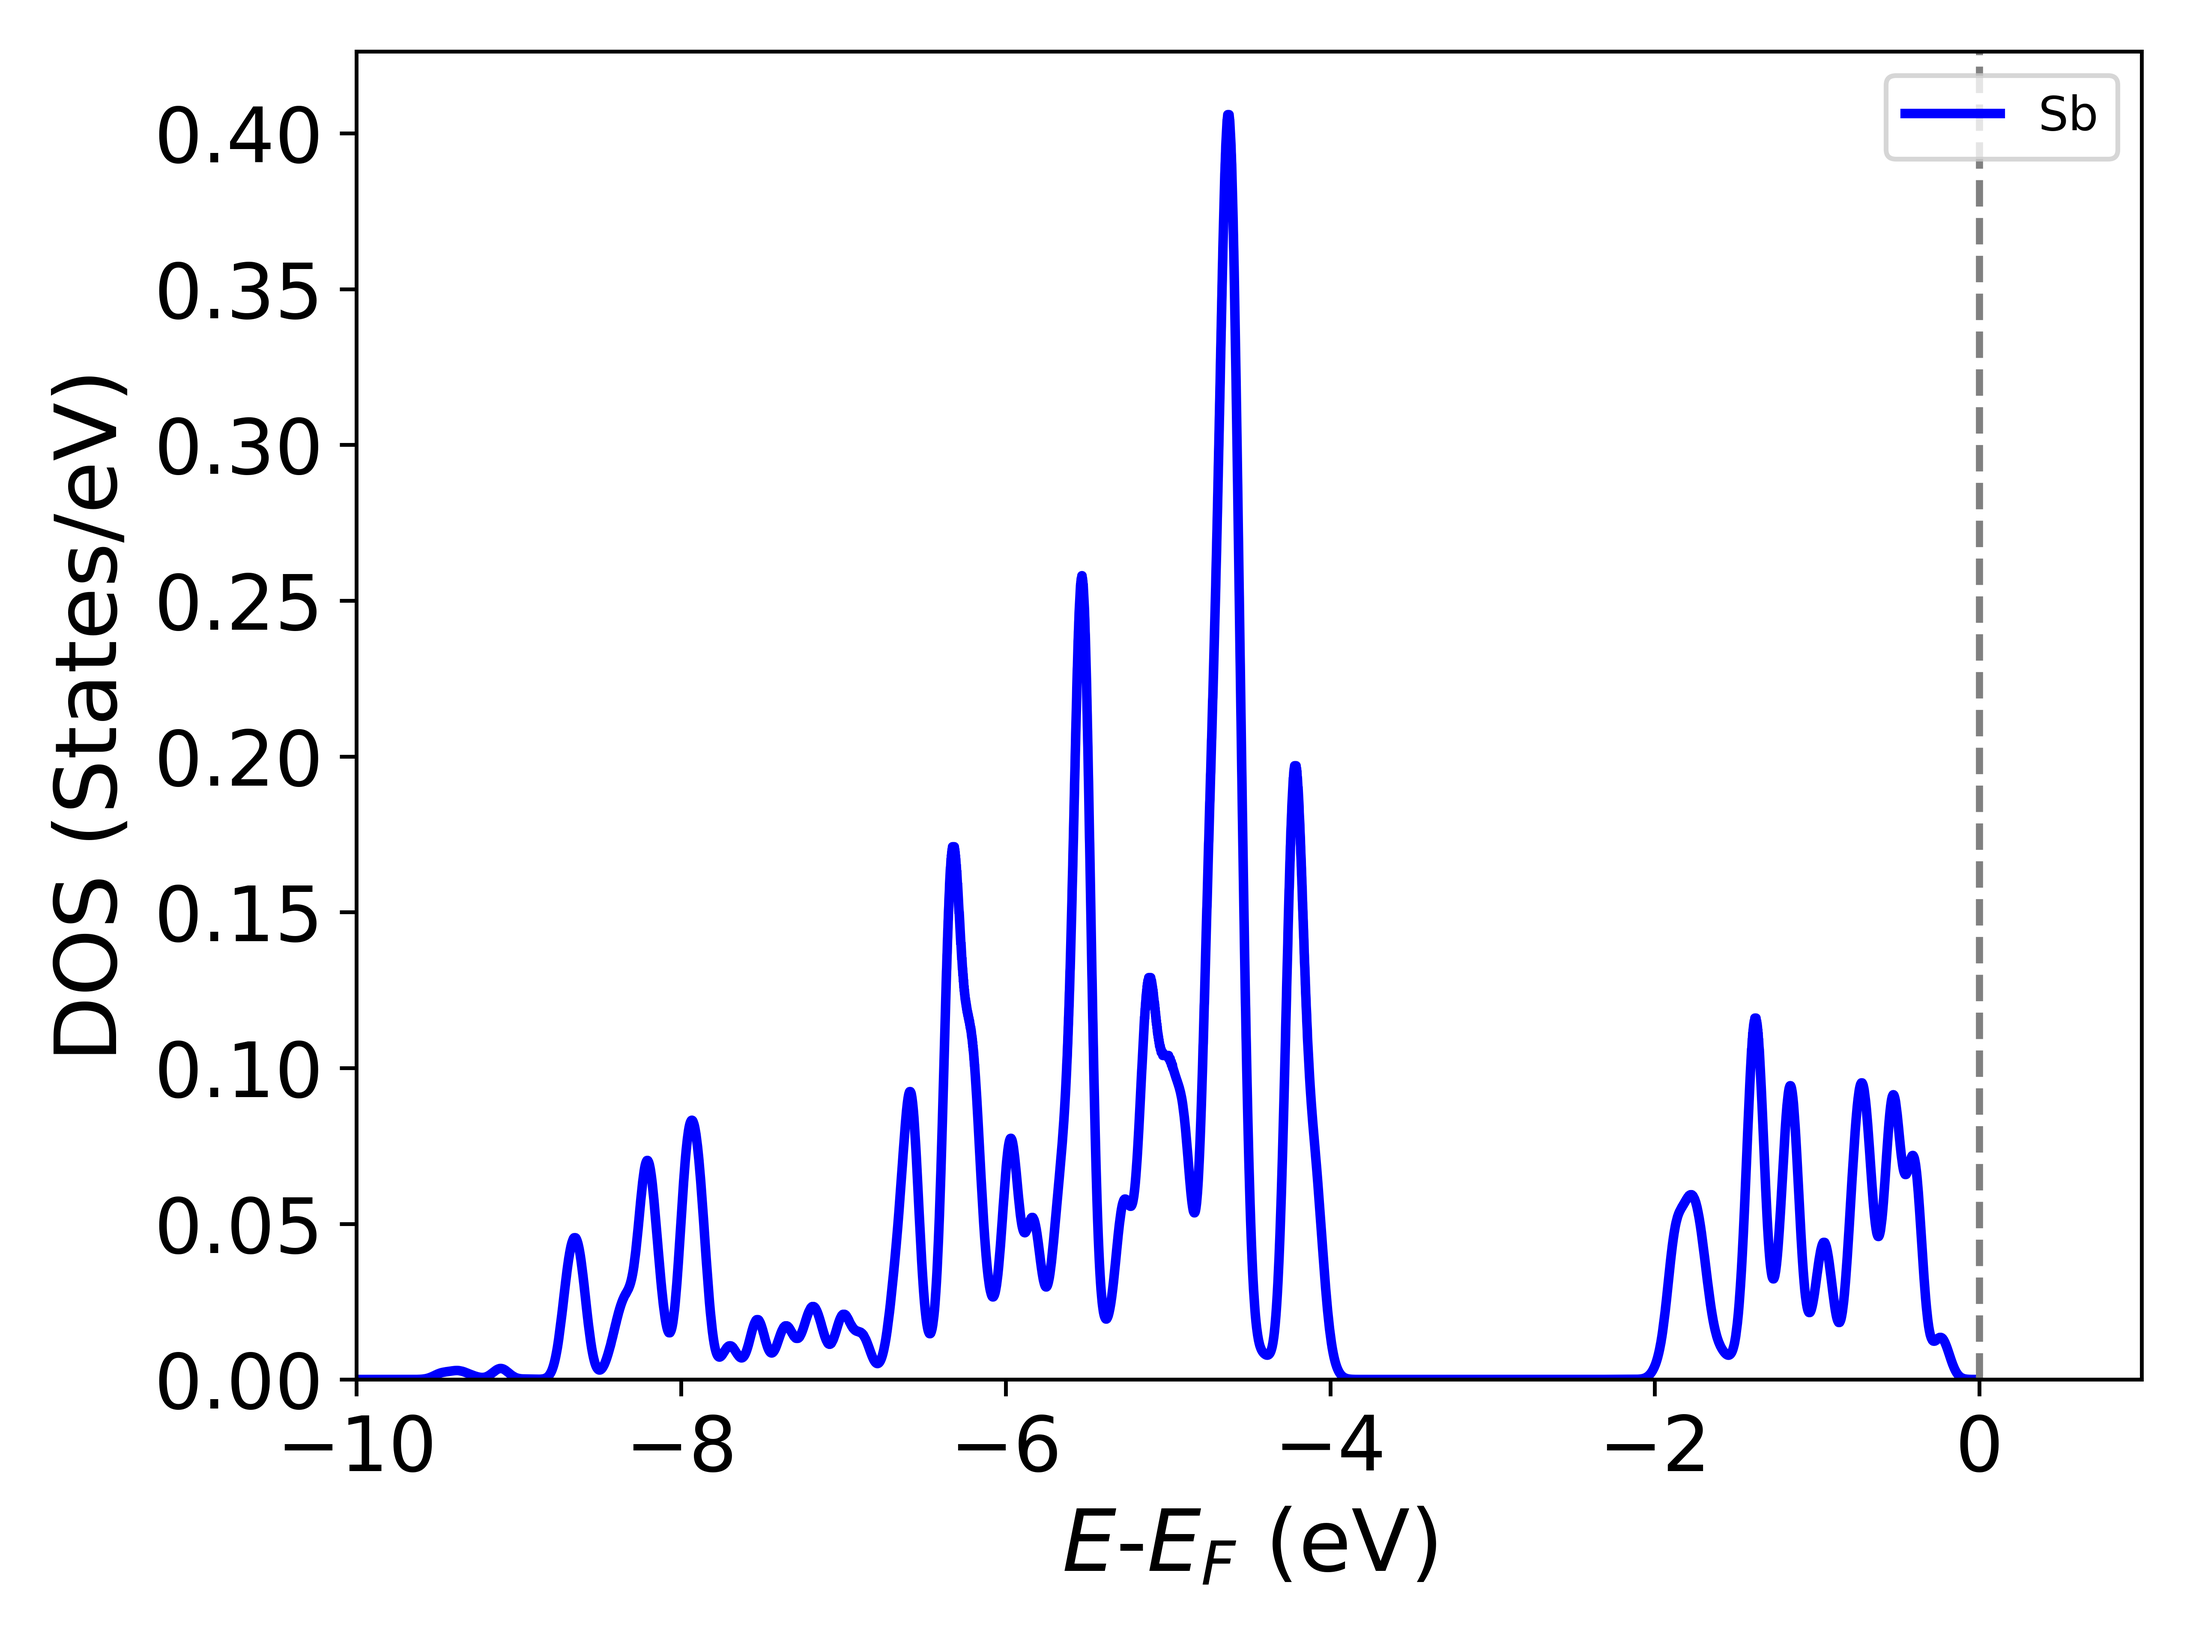
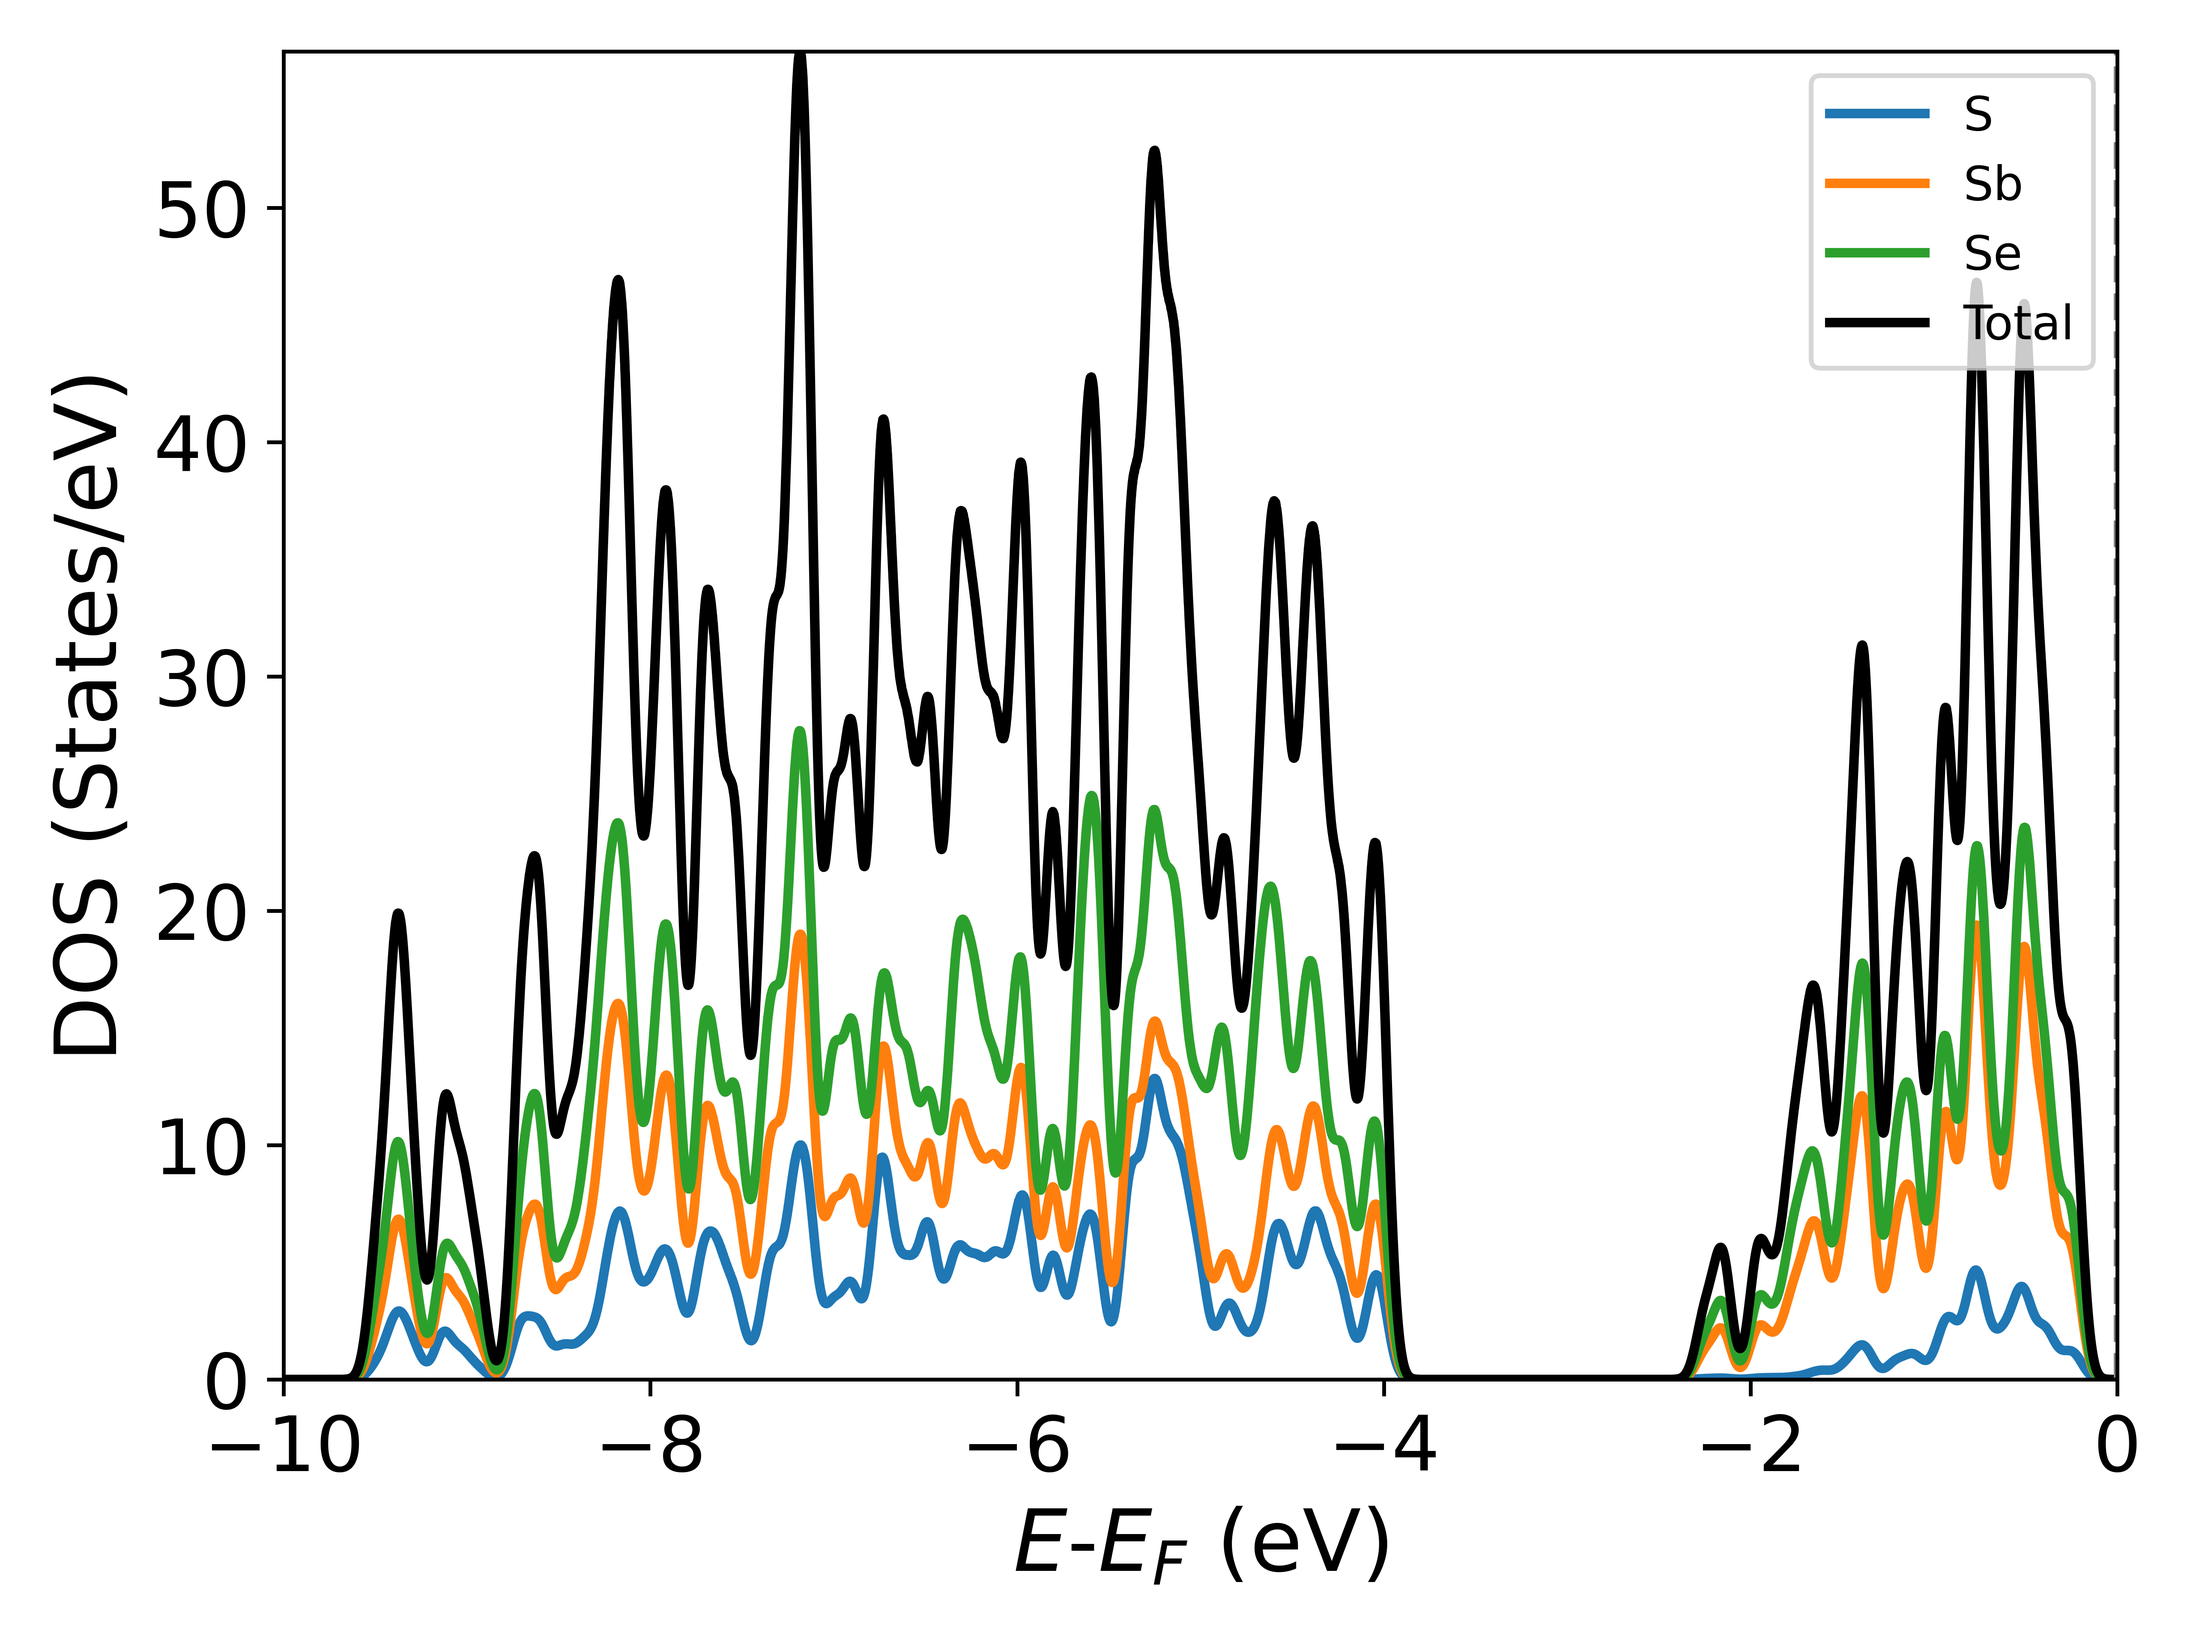
PDOS plot by atoms added

diff --git a/new_test/main.py b/new_test/main.py
@@ -1,4 +1,5 @@
 import numpy as np
+from matplotlib import pyplot as plt
 import re
 import os
 import search as src
@@ -10,19 +11,47 @@ path_folder = '/mnt/c/Users/vinic/OneDrive/Área de Trabalho/site_testes/PDOS-pl
 #print(src.files_directory(path_folder)[2][1])
 
 match=[]
-j=1
-for i in range(0, len(src.files_directory(path_folder)[2]), 1):
+E=[]
 
-    pattern = rf'\({src.files_directory(path_folder)[0][j]}\)'
+x = 1
 
-    if re.findall(pattern, src.files_directory(path_folder)[2][i]):
-        match.append(src.files_directory(path_folder)[2][i])
+#Es, ldos = np.loadtxt(match[i], unpack=True, usecols=(0,1))
+if x == 1:
+    ltot=0
+    for j in range (len(src.files_directory(path_folder)[0])):
+
+        for i in range(0, len(src.files_directory(path_folder)[2]), 1):
+
+            pattern = rf'\({src.files_directory(path_folder)[0][j]}\)'
+
+            if re.findall(pattern, src.files_directory(path_folder)[2][i]):
+                match.append(src.files_directory(path_folder)[2][i])
+
+        #ldosS = [0] * len(ldos)
+        lS=[]
+        ldosS=0
+        for k in range(len(match)):
+            full_path = os.path.join(path_folder, match[k])
+            Es, ldos = np.loadtxt(full_path, unpack=True, usecols=(0,1))
+
+            ldosS = ldosS + ldos
+        ltot=ltot + ldosS
+        gh.graph_s(Es, ldosS, src.files_directory(path_folder)[0][j], False)
+
+    gh.graph_s(Es, ltot, src.files_directory(path_folder)[0][j], True)
+    plt.tight_layout()
+    plt.savefig('graph.png', dpi=800)
+
         
 #for i in range(len(match)):
 #    print(match[i])
 
 #print(src.files_directory(path_folder)[0])
 
+'''
 caminho_completo = os.path.join(path_folder, match[0])
 
 gh.graph_s(caminho_completo, src.files_directory(path_folder)[0][j])
+plt.tight_layout()
+plt.savefig('graph.png', dpi=800)
+'''

diff --git a/new_test/graph.py b/new_test/graph.py
@@ -1,10 +1,38 @@
 import numpy as np
 from matplotlib import pyplot as plt
 
-def graph_s (file, legd):
-    Ep, ldos = np.loadtxt(file, unpack=True, usecols=(0,1))
+def graph_s (E, ldos, legd, marker):
+    #Es, ldos = np.loadtxt(file, unpack=True, usecols=(0,1))
+    if marker == False:
+        plt.plot(E, ldos, lw=2, zorder=1, label=legd)
+    if marker == True:
+        plt.plot(E, ldos, color='black', lw=2, zorder=1, label='Total')
+    
 
-    plt.plot(Ep, ldos, color='blue', lw=2, zorder=1, label=legd)
+    # Add legend
+    plt.legend(loc='upper right')
+
+    # Add labels and title
+    plt.xlabel('$E$-$E_F$ (eV)', fontsize=18)
+    plt.ylabel('DOS (States/eV)', fontsize=18)
+    plt.xticks(fontsize=16)
+    plt.yticks(fontsize=16)
+    plt.ylim(bottom=0)
+    plt.autoscale(enable=True, axis='both', tight=True)
+    #plt.xlim(-10, 1)
+    plt.axvline(0, linestyle='dashed', color='gray')
+
+'''   
+def graph_p (file, legd):
+    Ep, ldos, asd, asd, asd= np.loadtxt(file, unpack=True, usecols=(0,1,2,3,4))
+
+    if sdfdf =dsfsd:
+        plt.plot(Ep, ldos, color='blue', lw=2, zorder=1, label=legd)
+    else:
+        plt.plot(Ep, ldos, color='blue', lw=2, zorder=1, label=legd)
+        plt.plot(Ep, asd, color='blue', lw=2, zorder=1, label=legd)
+        plt.plot(Ep, asd, color='blue', lw=2, zorder=1, label=legd)
+        plt.plot(Ep, asd, color='blue', lw=2, zorder=1, label=legd)
     
 
     # Add legend
@@ -19,4 +47,4 @@ def graph_s (file, legd):
     plt.xlim(-10, 1)
     plt.axvline(0, linestyle='dashed', color='gray')
 
-   
+'''

diff --git a/new_test/search.py b/new_test/search.py
@@ -44,6 +44,7 @@ def files_directory(path_folder):
         list_spdf.append('total')
 
         return list_atoms, list_spdf, full_name
-        #print(list_spdf)
-        #print(list_atoms)
 
+def soma(file):
+        Es, ldos = np.loadtxt(file, unpack=True, usecols=(0,1))
+        ldosS[i] = ldosS[i] + ldos[i]
